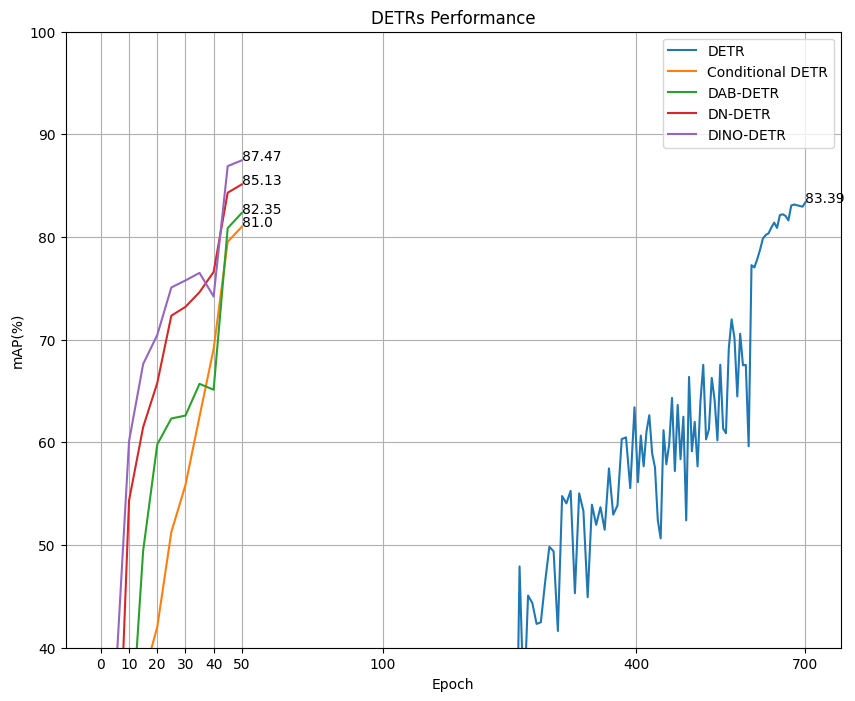
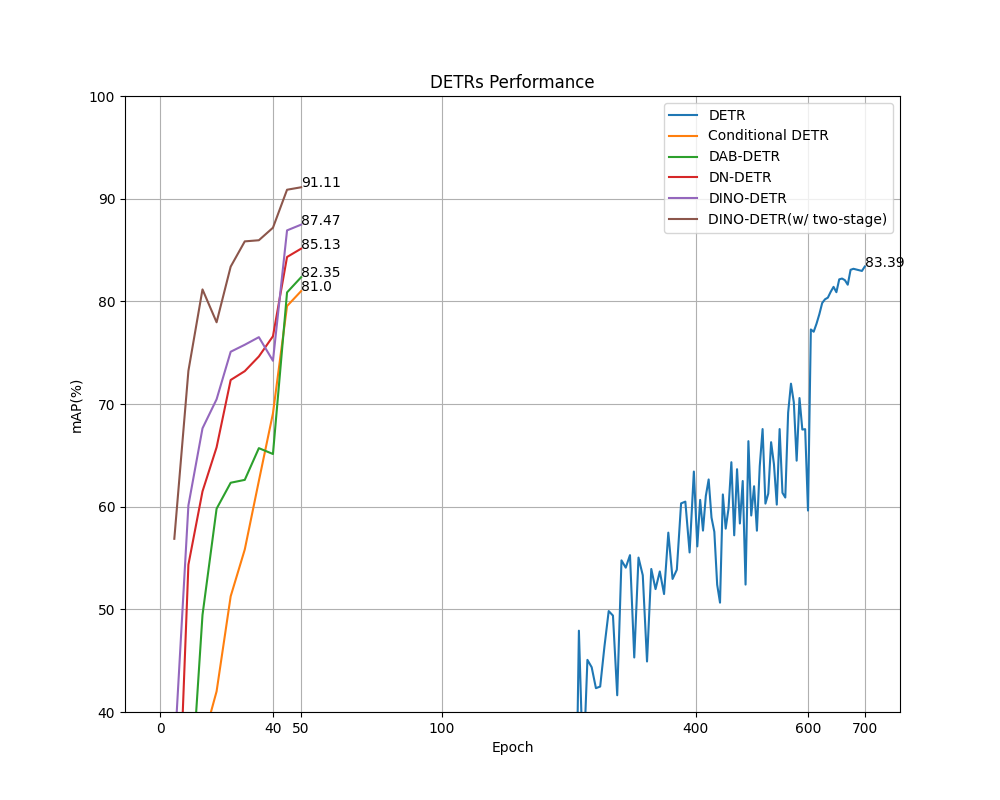
update README

diff --git a/README.md b/README.md
@@ -16,8 +16,9 @@ NOTE: The average number of objects per image in this dataset is 16, which is hi
 
 ## Models (Currently supported features)
 - DETR
+  - [X] Auxiliary losses from decoder layers
 - Conditional DETR
-  - [X] Concatenate content and position embeddings in the cross-attention
+  - [X] Concatenate content and positional embeddings in the cross-attention
 - DAB DETR
   - [X] Anchor query
   - [X] Modulate positional attention
@@ -27,134 +28,86 @@ NOTE: The average number of objects per image in this dataset is 16, which is hi
 - DNIO DETR
   - [X] A fixed number of noised queries
   - [X] Noised negative queries
-  - [ ] Mixed query selection (two-stage)
+  - [x] Mixed query selection
   - [ ] Look forward twice  
 - Co DETR
-  - [x] Two-stage Detection
-  - [x] Train encoder with ATSS 
-  - [ ] Multiple Auxiliary Heads
+  - [ ] Auxiliary collaborative heads
+      - [x] ATSS
+      - [ ] Faster-RCNN
+      - [ ] PAA
+  - [ ] Multi-scale adapter
 
 ### Experimental Results
 * Model performance (mAP)
 ![performance](./assets/performance.png)
 
-* Sample Results
-
-| Model | Output#1(w/ threshold 0.5, w/o nms)| Output#2(w/ threshold 0.5, w/o nms)| Output#2(w/ threshold 0.3, w/ nms 0.3)|
-| --- | --- | -- | -- |
-| GT | ![gt](./assets/ground_truth.png) | ![gt2](./assets/ground_truth2.png) | ![gt2](./assets/ground_truth2.png) | 
-| DETR | ![detr](./assets/DETR_000366.png) | ![detr2](./assets/DETR_001130.png) |  ![detr3](./assets/DETR_001130_nms.png) | 
-| Conditional DETR | ![cond](./assets/Conditional_DETR_000366.png) | ![cond2](./assets/Conditional_DETR_001130.png) | ![cond3](./assets/Conditional_DETR_001130_nms.png) | 
-| DAB-DETR | ![dab](./assets/DAB-DETR_000366.png) | ![dab2](./assets/DAB-DETR_001130.png) | ![dab3](./assets/DAB-DETR_001130_nms.png) | 
-| DN-DETR | ![dn](./assets/DN-DETR_000366.png) | ![dn2](./assets/DN-DETR_001130.png) | ![dn3](./assets/DN-DETR_001130_nms.png) | 
-| DINO-DETR | ![dino](./assets/DINO-DETR_000366.png) | ![dino2](./assets/DINO-DETR_001130.png) | ![dino3](./assets/DINO-DETR_001130_nms.png) |
-
 ## Usage
 - Check the [requirements.txt](./requirements.txt).
 
 ## Scripts
-<details>
-  <summary>Model train/validation scripts</summary>
-
 ```bash
 # DETR
-ex=01
-python main.py --mode 'train' --device "cuda:0" --model 'detr' --dataset 'shwd' \
-  --lr 0.00005 --lr_backbone 0.00001 --epochs 700 --lr_milestone 600 --lr_gamma 0.1 \
-  --return_intermediate --max_grad_norm 0.1 --weight_decay 0.0001 \
-  --d_model 256 --d_ff 2048 --n_heads 8 --p_drop 0.0 --n_query 600 \
-  --backbone "resnet50" --layer_index 7 --n_decoder_layers 6 --n_encoder_layers 6 \
-  --encoder_position_mode 'add' --decoder_sa_position_mode 'add' --decoder_ca_position_mode 'add' \
-  --batch_size 8 --image_set 'trainval' --aug_policy 6 \
-  --num_workers 4 --pin_memory --save_root "model-store/ex${ex}" \
-  --cls_loss 'ce' --pos_embedding 'sine' --temperature 10000 \
-  --cls_match_weight 1.0 --l1_match_weight 5.0 --giou_match_weight 2.0 \
-  --cls_loss_weight 1.0 --l1_loss_weight 5.0 --giou_loss_weight 2.0 --noobj_cls_weight 0.1 \
-  --wb_flag --wb_project 'detr' --wb_name "${ex}" --wb_tags "DETR"
+gpu=0
+ex='DETR'
+python main.py --mode 'train' --device "cuda:${gpu}" --model 'detr' \
+  --lr 0.00005 --epochs 500 --lr_milestone 400 --return_intermediate \
+  --n_query 600 --decoder_ca_position_mode 'add' \
+  --pin_memory --save_root "model-store/${ex}" \
+  --pos_embedding 'sine' --temperature 10000 \
+  --cls_match_weight 1.0 --cls_loss_weight 1.0
 
 # Conditional DETR
-ex=02
-python main.py --mode 'train' --device "cuda:0" --model 'conditional_detr' --dataset 'shwd' \
-  --lr 0.0001 --lr_backbone 0.00001 --epochs 50 --lr_milestone 40 --lr_gamma 0.1 \
-  --return_intermediate --max_grad_norm 0.1 --weight_decay 0.0001 \
-  --d_model 256 --d_ff 2048 --n_heads 8 --p_drop 0.0 --n_query 600 --num_pattern 0 \
-  --backbone "resnet50" --layer_index 7 --n_decoder_layers 6 --n_encoder_layers 6 \
-  --encoder_position_mode 'add' --decoder_sa_position_mode 'add' --decoder_ca_position_mode 'cat' \
-  --batch_size 8 --image_set 'trainval' --aug_policy 6 \
-  --num_workers 4 --pin_memory --save_root "model-store/ex${ex}" \
-  --cls_loss 'focal' --pos_embedding 'sinev2' --temperature 20 --query_scale_mode 'diag' \
-  --transformer_activation 'relu' \
-  --cls_match_weight 2.0 --l1_match_weight 5.0 --giou_match_weight 2.0 \
-  --cls_loss_weight 2.0 --l1_loss_weight 5.0 --giou_loss_weight 2.0 --noobj_cls_weight 0.1 \
-  --wb_flag --wb_project 'detr' --wb_name "${ex}" --wb_tags "Conditional-DETR"
+ex='C_DETR'
+python main.py --mode 'train' --device "cuda:${gpu}" --model 'conditional_detr' \
+  --epochs 50 --lr_milestone 40 --return_intermediate --n_query 600 \
+  --pin_memory --save_root "model-store/${ex}" \
+  --cls_loss 'focal' --pos_embedding 'sinev2' \
+  --temperature 20 --query_scale_mode 'diag' 
 
 # DAB DETR
-ex=03
-python main.py --mode 'train' --device "cuda:0" --model 'dab-detr' --dataset 'shwd' \
-  --lr 0.0001 --lr_backbone 0.00001 --epochs 50 --lr_milestone 40 --lr_gamma 0.1 \
-  --return_intermediate --max_grad_norm 0.1 --weight_decay 0.0001 \
-  --d_model 256 --d_ff 2048 --n_heads 8 --p_drop 0.0 --n_query 200 --num_pattern 3 \
-  --backbone "resnet50" --layer_index 7 --n_decoder_layers 6 --n_encoder_layers 6 \
-  --encoder_position_mode 'add' --decoder_sa_position_mode 'add' --decoder_ca_position_mode 'cat' \
-  --batch_size 8 --image_set 'trainval' --aug_policy 6 \
-  --num_workers 4 --pin_memory --save_root "model-store/ex${ex}" \
-  --cls_loss 'focal' --pos_embedding 'sinev2' --temperature 20 --query_scale_mode 'diag' \
-  --modulate_wh_attn --iter_update --transformer_activation 'prelu' \
-  --cls_match_weight 2.0 --l1_match_weight 5.0 --giou_match_weight 2.0 \
-  --cls_loss_weight 2.0 --l1_loss_weight 5.0 --giou_loss_weight 2.0 --noobj_cls_weight 0.1 \
-  --wb_flag --wb_project 'detr' --wb_name "${ex}" --wb_tags "DAB-DETR"
+ex='DAB-DETR'
+python main.py --mode 'train' --device "cuda:${gpu}" --model 'dab-detr' \
+  --epochs 50 --lr_milestone 40 --return_intermediate \
+  --n_query 200 --num_pattern 3 \
+  --pin_memory --save_root "model-store/${ex}" \
+  --cls_loss 'focal' --pos_embedding 'sinev2' --temperature 20 \
+  --modulate_wh_attn --iter_update --transformer_activation 'prelu'
 
 # DN DETR
-ex=04
-python main.py --mode 'train' --device "cuda:0" --model 'dn-detr' --dataset 'shwd' \
-  --lr 0.0001 --lr_backbone 0.00001 --epochs 50 --lr_milestone 40 --lr_gamma 0.1 \
-  --return_intermediate --max_grad_norm 0.1 --weight_decay 0.0001 \
-  --d_model 256 --d_ff 2048 --n_heads 8 --p_drop 0.0 --n_query 600 \
-  --backbone "resnet50" --layer_index 7 --n_decoder_layers 6 --n_encoder_layers 6 \
-  --encoder_position_mode 'add' --decoder_sa_position_mode 'add' --decoder_ca_position_mode 'cat' \
-  --batch_size 8 --image_set 'trainval' --aug_policy 6 \
-  --num_workers 4 --pin_memory --save_root "model-store/ex${ex}" \
-  --cls_loss 'focal' --pos_embedding 'sinev2' --temperature 20 --query_scale_mode 'diag' \
+ex='DN-DETR'
+python main.py --mode 'train' --device "cuda:${gpu}" --model 'dn-detr' \
+  --epochs 50 --lr_milestone 40 \
+  --return_intermediate --n_query 600 \
+  --pin_memory --save_root "model-store/${ex}" \
+  --cls_loss 'focal' --pos_embedding 'sinev2' --temperature 20 \
   --modulate_wh_attn --iter_update --transformer_activation 'prelu' \
-  --num_pattern 0 --num_group 3 --box_noise_scale 0.4 --label_noise_scale 0.2 \
-  --cls_match_weight 2.0 --l1_match_weight 5.0 --giou_match_weight 2.0 \
-  --cls_loss_weight 2.0 --l1_loss_weight 5.0 --giou_loss_weight 2.0 --noobj_cls_weight 0.1 \
-  --wb_flag --wb_project 'detr' --wb_name "${ex}" --wb_tags "DN-DETR"
+  --num_pattern 0 --num_group 5 --box_noise_scale 0.4 --label_noise_scale 0.2
 
-# DINO DETR
-ex=05
-python main.py --mode 'train' --device "cuda:0" --model 'dino-detr' --dataset 'shwd' \
-  --lr 0.0001 --lr_backbone 0.00001 --epochs 50 --lr_milestone 40 --lr_gamma 0.1 \
-  --return_intermediate --max_grad_norm 0.1 --weight_decay 0.0001 \
-  --d_model 256 --d_ff 2048 --n_heads 8 --p_drop 0.0 --n_query 600 \
-  --backbone "resnet50" --layer_index 7 --n_decoder_layers 6 --n_encoder_layers 6 \
-  --encoder_position_mode 'add' --decoder_sa_position_mode 'add' --decoder_ca_position_mode 'cat' \
-  --batch_size 8 --image_set 'trainval' --aug_policy 6 \
-  --num_workers 4 --pin_memory --save_root "model-store/ex${ex}" \
-  --cls_loss 'focal' --pos_embedding 'sinev2' --temperature 20 --query_scale_mode 'diag' \
+ex='DINO-DETR'
+python main.py --mode 'train' --device "cuda:${gpu}" --model 'dino-detr' \
+  --epochs 50 --lr_milestone 40 \
+  --return_intermediate --n_query 300 \
+  --pin_memory --save_root "model-store/${ex}" \
+  --cls_loss 'focal' --pos_embedding 'sinev2' --temperature 20 \
   --modulate_wh_attn --iter_update --transformer_activation 'prelu' \
   --num_dn_query 50 --add_neg_query --num_pattern 0 --num_group 5 \
   --box_noise_scale 0.4 --label_noise_scale 0.2 \
-  --cls_match_weight 2.0 --l1_match_weight 5.0 --giou_match_weight 2.0 \
-  --cls_loss_weight 2.0 --l1_loss_weight 5.0 --giou_loss_weight 2.0 --noobj_cls_weight 0.1 \
-  --wb_flag --wb_project 'detr' --wb_name "${ex}" --wb_tags "DINO-DETR"
+  --two_stage_mode 'mix' --num_encoder_query 300 --two_stage_share_head
 
 # Model evaluation.
-ex=01
-save_path="model-store/ex${ex}/test_result/"
+ex='DETR'
+save_path="model-store/${ex}/test_result/"
 
-python main.py --mode 'test' --device 'cuda:0' --pin_memory --batch_size 1  \
-    --eval_model_path "./model-store/ex${ex}/trained_model.pt" \
+python main.py --mode 'test' --device "cuda:${gpu}" --pin_memory --batch_size 1  \
+    --eval_model_path "./model-store/${ex}/trained_model.pt" \
     --save_root ${save_path}
 cd mAP/
 python main.py -na -np --dr "../${save_path}"
 cd ..
 ```
-</details>
 
 # To Do
 - [ ] Deformable Attention
-- [ ] (DINO) (Two-stage) mixed query selection.
 
 # Reference
 - https://github.com/facebookresearch/detr/
